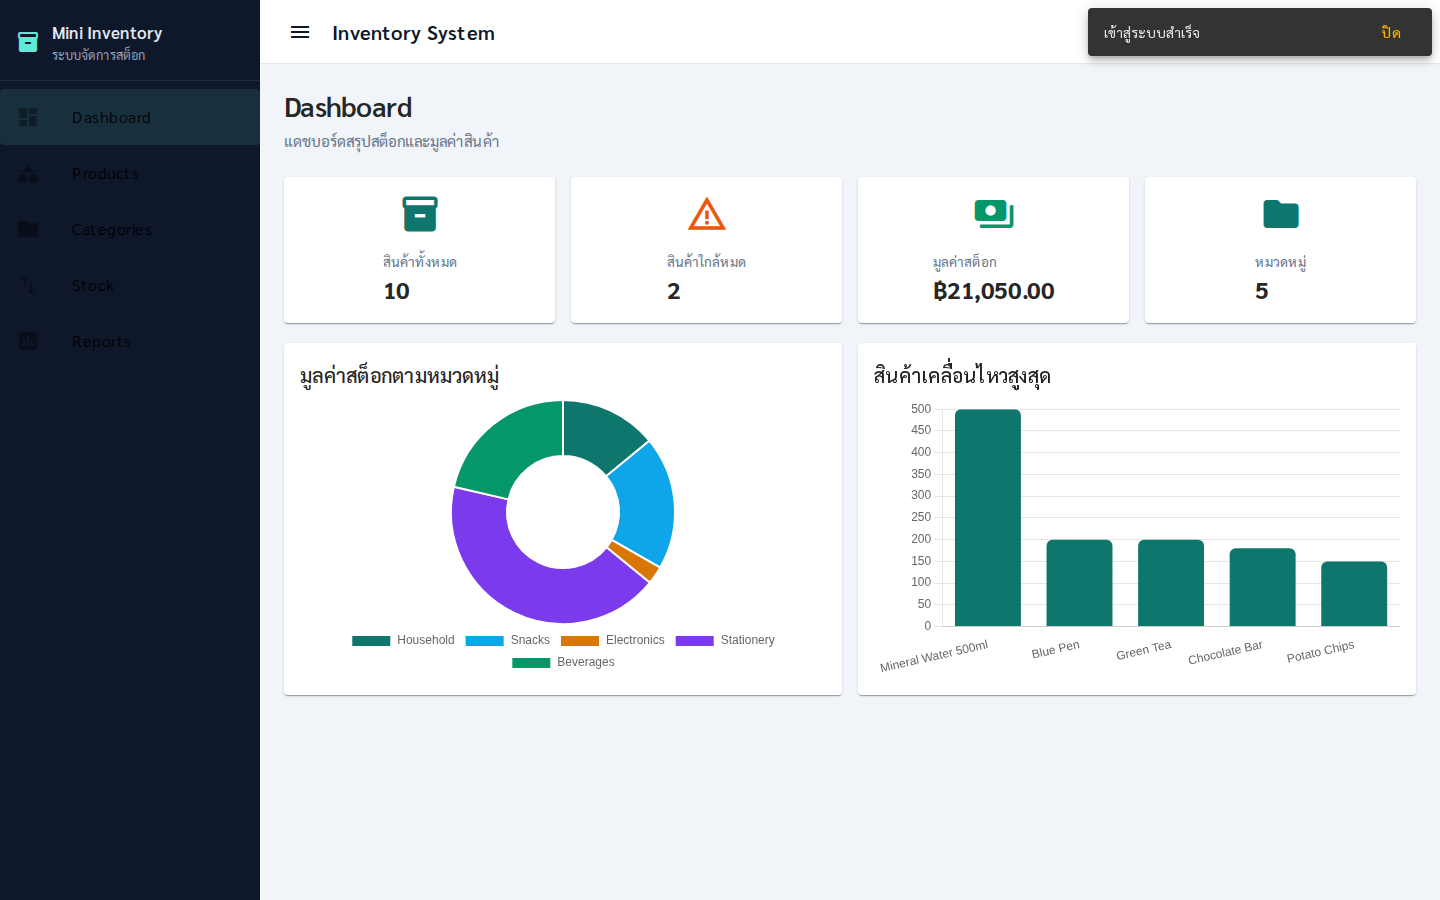
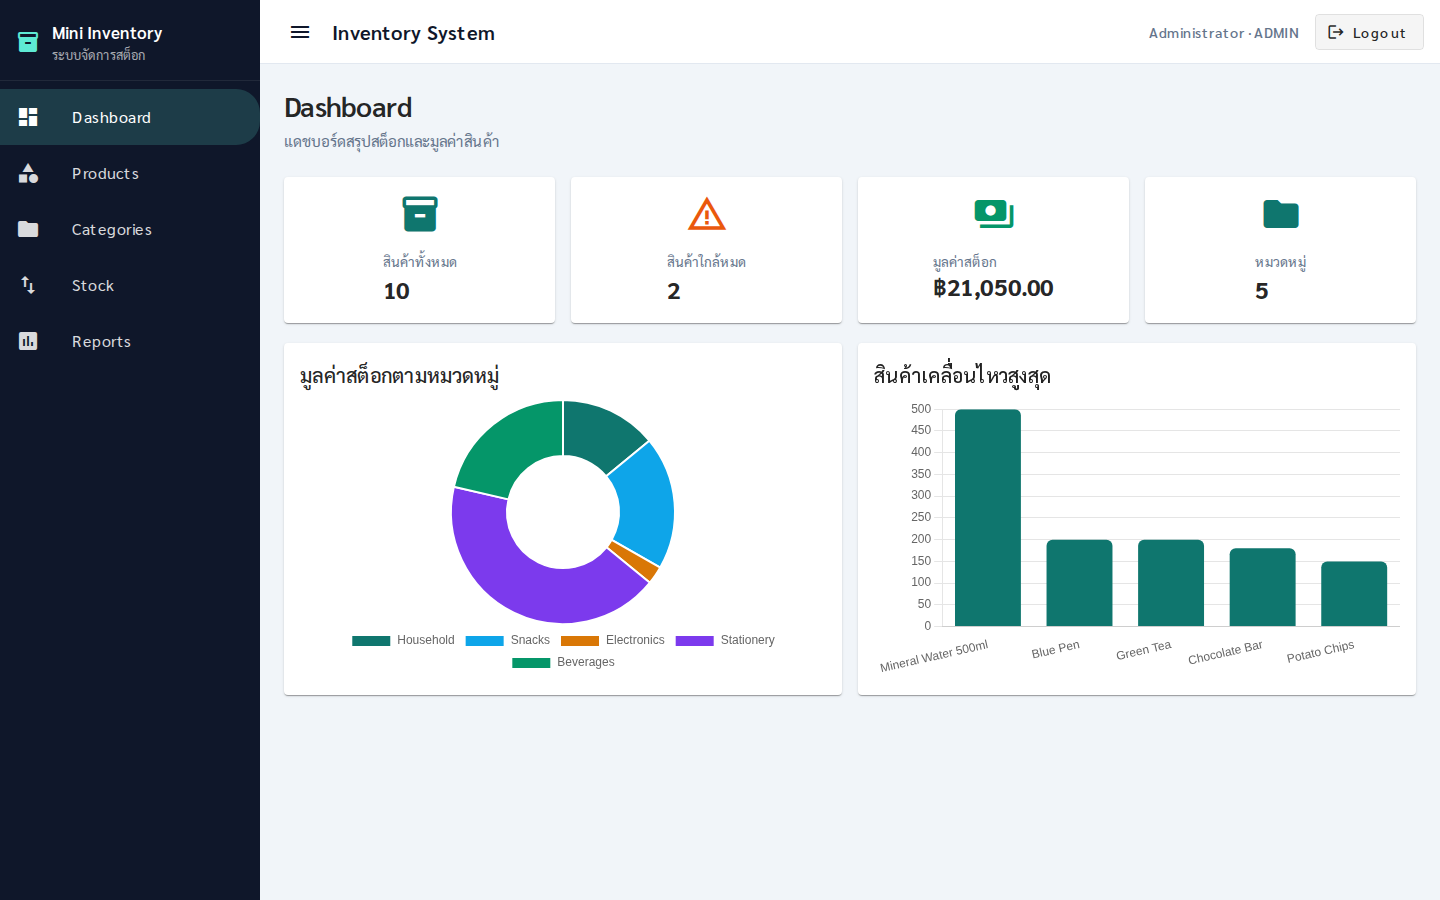
Polish sidenav contrast, Baht glyph fonts, and screenshots
- Force light sidenav labels/icons on dark navy (global Material overrides)
- Bundle Sarabun/Noto Sans Thai via @fontsource so ฿ renders without CDN
- Dismiss login snackbar before Playwright captures
- Replace docs/screenshots after verification

diff --git a/frontend/e2e-test.js b/frontend/e2e-test.js
@@ -14,13 +14,37 @@ function record(name, status, detail = '') {
   console.log(`${status === 'PASS' ? '✅' : '❌'} ${name}${detail ? ' — ' + detail : ''}`);
 }
 
+async function waitFonts(page) {
+  await page.evaluate(async () => {
+    if (document.fonts?.ready) await document.fonts.ready;
+  });
+  await page.waitForTimeout(150);
+}
+
+async function dismissSnackbar(page) {
+  const snack = page.locator('.mat-mdc-snack-bar-container, simple-snack-bar');
+  if (await snack.count()) {
+    const action = page.locator('.mat-mdc-snack-bar-action, simple-snack-bar button').first();
+    if (await action.count()) {
+      await action.click({ timeout: 2000 }).catch(() => {});
+    }
+    await snack.first().waitFor({ state: 'hidden', timeout: 5000 }).catch(async () => {
+      await page.waitForTimeout(3500);
+    });
+  }
+  await page.waitForTimeout(200);
+}
+
 async function login(page, username, password) {
   await page.goto('http://localhost:4200/login');
   await page.waitForSelector('#username', { timeout: 20000 });
+  await waitFonts(page);
   await page.fill('#username', username);
   await page.fill('#password', password);
   await page.click('button[type="submit"]');
   await page.waitForSelector('.shell, .page-title', { timeout: 20000 });
+  await dismissSnackbar(page);
+  await waitFonts(page);
 }
 
 async function run() {
@@ -31,18 +55,24 @@ async function run() {
   try {
     await page.goto('http://localhost:4200/login');
     await page.waitForSelector('#username');
+    await waitFonts(page);
     await page.screenshot({ path: path.join(screenshotsDir, '01-login.png'), fullPage: true });
     record('Login page', 'PASS');
 
     await login(page, 'admin', 'password123');
     await page.waitForSelector('.stats-grid, .stat-card');
-    await page.waitForTimeout(1000);
+    await page.waitForTimeout(600);
+    await dismissSnackbar(page);
+    await waitFonts(page);
     await page.screenshot({ path: path.join(screenshotsDir, '02-dashboard.png'), fullPage: true });
     record('Dashboard + charts', 'PASS');
 
     await page.click('a[href="/products"]');
     await page.waitForSelector('.products-page');
-    await page.waitForTimeout(800);
+    await page.waitForSelector('.money');
+    await page.waitForTimeout(600);
+    await dismissSnackbar(page);
+    await waitFonts(page);
     await page.screenshot({ path: path.join(screenshotsDir, '03-products-list.png'), fullPage: true });
     record('Products list', 'PASS');
 
@@ -66,10 +96,10 @@ async function run() {
     await page.click('a[href="/reports"]');
     await page.waitForSelector('.page-title');
     await page.waitForTimeout(1000);
+    await dismissSnackbar(page);
     await page.screenshot({ path: path.join(screenshotsDir, '06-reports.png'), fullPage: true });
     record('Reports', 'PASS');
 
-    // Ensure low stock via API then refresh low stock tab
     const token = await page.evaluate(() => localStorage.getItem('token'));
     await page.request.post('http://localhost:8080/api/stock-transactions', {
       headers: { Authorization: `Bearer ${token}`, 'Content-Type': 'application/json' },
@@ -77,6 +107,7 @@ async function run() {
     }).catch(() => {});
     await page.reload();
     await page.waitForSelector('.page-title');
+    await dismissSnackbar(page);
     await page.getByRole('tab', { name: 'Low Stock' }).click();
     await page.waitForTimeout(800);
     await page.screenshot({ path: path.join(screenshotsDir, '07-low-stock.png'), fullPage: true });
@@ -86,6 +117,7 @@ async function run() {
     await page.waitForSelector('#username');
     await login(page, 'staff', 'password123');
     await page.waitForSelector('.shell');
+    await dismissSnackbar(page);
     const cat = await page.locator('a[href="/categories"]').count();
     record('Staff role restriction', cat === 0 ? 'PASS' : 'FAIL', cat === 0 ? 'Categories hidden' : 'Categories visible');
     await page.screenshot({ path: path.join(screenshotsDir, '08-staff-dashboard.png'), fullPage: true });

diff --git a/frontend/src/styles.scss b/frontend/src/styles.scss
@@ -1,5 +1,19 @@
 @use './theme.scss';
 
+/* Local fonts (Google Fonts CDN often blocked in CI/headless) — Thai subset includes ฿ */
+@import '@fontsource/sarabun/thai-400.css';
+@import '@fontsource/sarabun/thai-500.css';
+@import '@fontsource/sarabun/thai-600.css';
+@import '@fontsource/sarabun/thai-700.css';
+@import '@fontsource/sarabun/latin-400.css';
+@import '@fontsource/sarabun/latin-500.css';
+@import '@fontsource/sarabun/latin-600.css';
+@import '@fontsource/sarabun/latin-700.css';
+@import '@fontsource/noto-sans-thai/thai-400.css';
+@import '@fontsource/noto-sans-thai/thai-500.css';
+@import '@fontsource/noto-sans-thai/thai-600.css';
+@import '@fontsource/noto-sans-thai/thai-700.css';
+
 *,
 *::before,
 *::after {
@@ -12,11 +26,46 @@ html, body {
 }
 
 body {
-  font-family: 'Sarabun', 'Noto Sans Thai', 'Helvetica Neue', sans-serif;
+  font-family: 'Sarabun', 'Noto Sans Thai', 'Noto Sans', Tahoma, sans-serif;
   color: var(--inv-ink);
   background: var(--inv-surface);
   line-height: 1.5;
   -webkit-font-smoothing: antialiased;
+}
+
+/* Thai Baht ฿ (U+0E3F) — force Thai-capable faces so it does not fall back to plain "B" */
+.money {
+  font-family: 'Noto Sans Thai', 'Sarabun', Tahoma, sans-serif !important;
+  font-weight: 700;
+  font-size: 0.95rem;
+  font-feature-settings: 'locl' 1;
+  white-space: nowrap;
+}
+.mat-mdc-cell {
+  font-family: 'Sarabun', 'Noto Sans Thai', Tahoma, sans-serif;
+}
+
+/* Global sidenav contrast (beats Material list defaults) */
+.sidenav .mat-mdc-list-item,
+.sidenav .mat-mdc-list-item .mdc-list-item__primary-text,
+.sidenav .mat-mdc-list-item .mat-icon,
+.sidenav .mat-mdc-list-item mat-icon,
+.sidenav .mdc-list-item__start {
+  color: rgba(255, 255, 255, 0.92) !important;
+}
+.sidenav .mat-mdc-list-item .mdc-list-item__primary-text {
+  opacity: 1 !important;
+}
+.sidenav .mat-mdc-list-item.active,
+.sidenav .mat-mdc-list-item.active .mdc-list-item__primary-text,
+.sidenav .mat-mdc-list-item.active .mat-icon,
+.sidenav .mat-mdc-list-item.active mat-icon,
+.sidenav .mat-mdc-list-item.active .mdc-list-item__start {
+  color: #ffffff !important;
+}
+.sidenav .mat-mdc-list-item.active {
+  background: rgba(94, 234, 212, 0.22) !important;
+  border-radius: 0 24px 24px 0;
 }
 
 a {

diff --git a/frontend/src/app/app.component.ts b/frontend/src/app/app.component.ts
@@ -87,7 +87,7 @@ import { User } from './models/user.model';
     .sidenav {
       width: 260px;
       background: var(--inv-sidebar);
-      color: var(--inv-sidebar-text);
+      color: rgba(255, 255, 255, 0.85);
       border: none;
     }
     .brand {
@@ -96,15 +96,27 @@ import { User } from './models/user.model';
       align-items: center;
       padding: 1.25rem 1rem 1rem;
       border-bottom: 1px solid rgba(255,255,255,0.08);
+      color: #fff;
     }
     .brand mat-icon { color: #5eead4; }
-    .brand-title { font-weight: 600; font-size: 1.05rem; }
-    .brand-sub { font-size: 0.8rem; color: #94a3b8; }
-    .sidenav a.active {
-      background: rgba(94, 234, 212, 0.12);
-      color: #5eead4;
+    .brand-title { font-weight: 600; font-size: 1.05rem; color: #fff; }
+    .brand-sub { font-size: 0.8rem; color: rgba(255, 255, 255, 0.65); }
+    .sidenav a.mat-mdc-list-item,
+    .sidenav a.mat-mdc-list-item .mdc-list-item__primary-text,
+    .sidenav a.mat-mdc-list-item mat-icon {
+      color: rgba(255, 255, 255, 0.85) !important;
     }
-    .sidenav a { color: var(--inv-sidebar-text); }
+    .sidenav a.mat-mdc-list-item:hover {
+      background: rgba(255, 255, 255, 0.06);
+    }
+    .sidenav a.mat-mdc-list-item.active {
+      background: rgba(94, 234, 212, 0.18) !important;
+    }
+    .sidenav a.mat-mdc-list-item.active,
+    .sidenav a.mat-mdc-list-item.active .mdc-list-item__primary-text,
+    .sidenav a.mat-mdc-list-item.active mat-icon {
+      color: #ffffff !important;
+    }
     .topbar {
       background: var(--inv-card);
       color: var(--inv-ink);

diff --git a/frontend/src/app/components/reports.component.ts b/frontend/src/app/components/reports.component.ts
@@ -59,7 +59,7 @@ import { Product } from '../models/product.model';
               <ng-container matColumnDef="productName"><th mat-header-cell *matHeaderCellDef>Product</th><td mat-cell *matCellDef="let r">{{ r.productName }}</td></ng-container>
               <ng-container matColumnDef="categoryName"><th mat-header-cell *matHeaderCellDef>Category</th><td mat-cell *matCellDef="let r">{{ r.categoryName }}</td></ng-container>
               <ng-container matColumnDef="currentStock"><th mat-header-cell *matHeaderCellDef>Stock</th><td mat-cell *matCellDef="let r">{{ r.currentStock }}</td></ng-container>
-              <ng-container matColumnDef="stockValue"><th mat-header-cell *matHeaderCellDef>Value</th><td mat-cell *matCellDef="let r">฿{{ r.stockValue | number:'1.2-2' }}</td></ng-container>
+              <ng-container matColumnDef="stockValue"><th mat-header-cell *matHeaderCellDef>Value</th><td mat-cell *matCellDef="let r"><span class="money">฿{{ r.stockValue | number:'1.2-2' }}</span></td></ng-container>
               <ng-container matColumnDef="status">
                 <th mat-header-cell *matHeaderCellDef>Status</th>
                 <td mat-cell *matCellDef="let r">

diff --git a/frontend/src/app/components/products.component.ts b/frontend/src/app/components/products.component.ts
@@ -92,11 +92,11 @@ import { Category } from '../models/category.model';
           </ng-container>
           <ng-container matColumnDef="costPrice">
             <th mat-header-cell *matHeaderCellDef>Cost</th>
-            <td mat-cell *matCellDef="let row">฿{{ row.costPrice | number:'1.0-2' }}</td>
+            <td mat-cell *matCellDef="let row"><span class="money">฿{{ row.costPrice | number:'1.0-2' }}</span></td>
           </ng-container>
           <ng-container matColumnDef="sellingPrice">
             <th mat-header-cell *matHeaderCellDef>Price</th>
-            <td mat-cell *matCellDef="let row">฿{{ row.sellingPrice | number:'1.0-2' }}</td>
+            <td mat-cell *matCellDef="let row"><span class="money">฿{{ row.sellingPrice | number:'1.0-2' }}</span></td>
           </ng-container>
           <ng-container matColumnDef="actions">
             <th mat-header-cell *matHeaderCellDef></th>

diff --git a/frontend/src/index.html b/frontend/src/index.html
@@ -6,9 +6,7 @@
   <base href="/">
   <meta name="viewport" content="width=device-width, initial-scale=1">
   <link rel="icon" type="image/x-icon" href="favicon.ico">
-  <link rel="preconnect" href="https://fonts.googleapis.com">
-  <link rel="preconnect" href="https://fonts.gstatic.com" crossorigin>
-  <link href="https://fonts.googleapis.com/css2?family=Sarabun:wght@300;400;500;600;700&family=Noto+Sans+Thai:wght@300;400;500;600;700&display=swap" rel="stylesheet">
+  <!-- Material Icons only from Google; body fonts are bundled via @fontsource -->
   <link href="https://fonts.googleapis.com/icon?family=Material+Icons" rel="stylesheet">
 </head>
 <body class="mat-typography">

diff --git a/frontend/src/app/components/dashboard.component.ts b/frontend/src/app/components/dashboard.component.ts
@@ -50,7 +50,7 @@ import { DashboardData } from '../models/report.model';
             <mat-icon>payments</mat-icon>
             <div>
               <div class="label">มูลค่าสต็อก</div>
-              <div class="value">฿{{ dashboardData.totalStockValue | number:'1.2-2' }}</div>
+              <div class="value money">฿{{ dashboardData.totalStockValue | number:'1.2-2' }}</div>
             </div>
           </mat-card>
           <mat-card class="stat-card">

diff --git a/frontend/src/theme.scss b/frontend/src/theme.scss
@@ -6,7 +6,7 @@ $inv-accent: mat.define-palette(mat.$amber-palette, 600, 400, 800);
 $inv-warn: mat.define-palette(mat.$deep-orange-palette, 600);
 
 $inv-typography: mat.define-typography-config(
-  $font-family: '"Sarabun", "Noto Sans Thai", "Helvetica Neue", sans-serif'
+  $font-family: '"Sarabun", "Noto Sans Thai", "Noto Sans", Tahoma, sans-serif'
 );
 
 $inv-theme: mat.define-light-theme((
